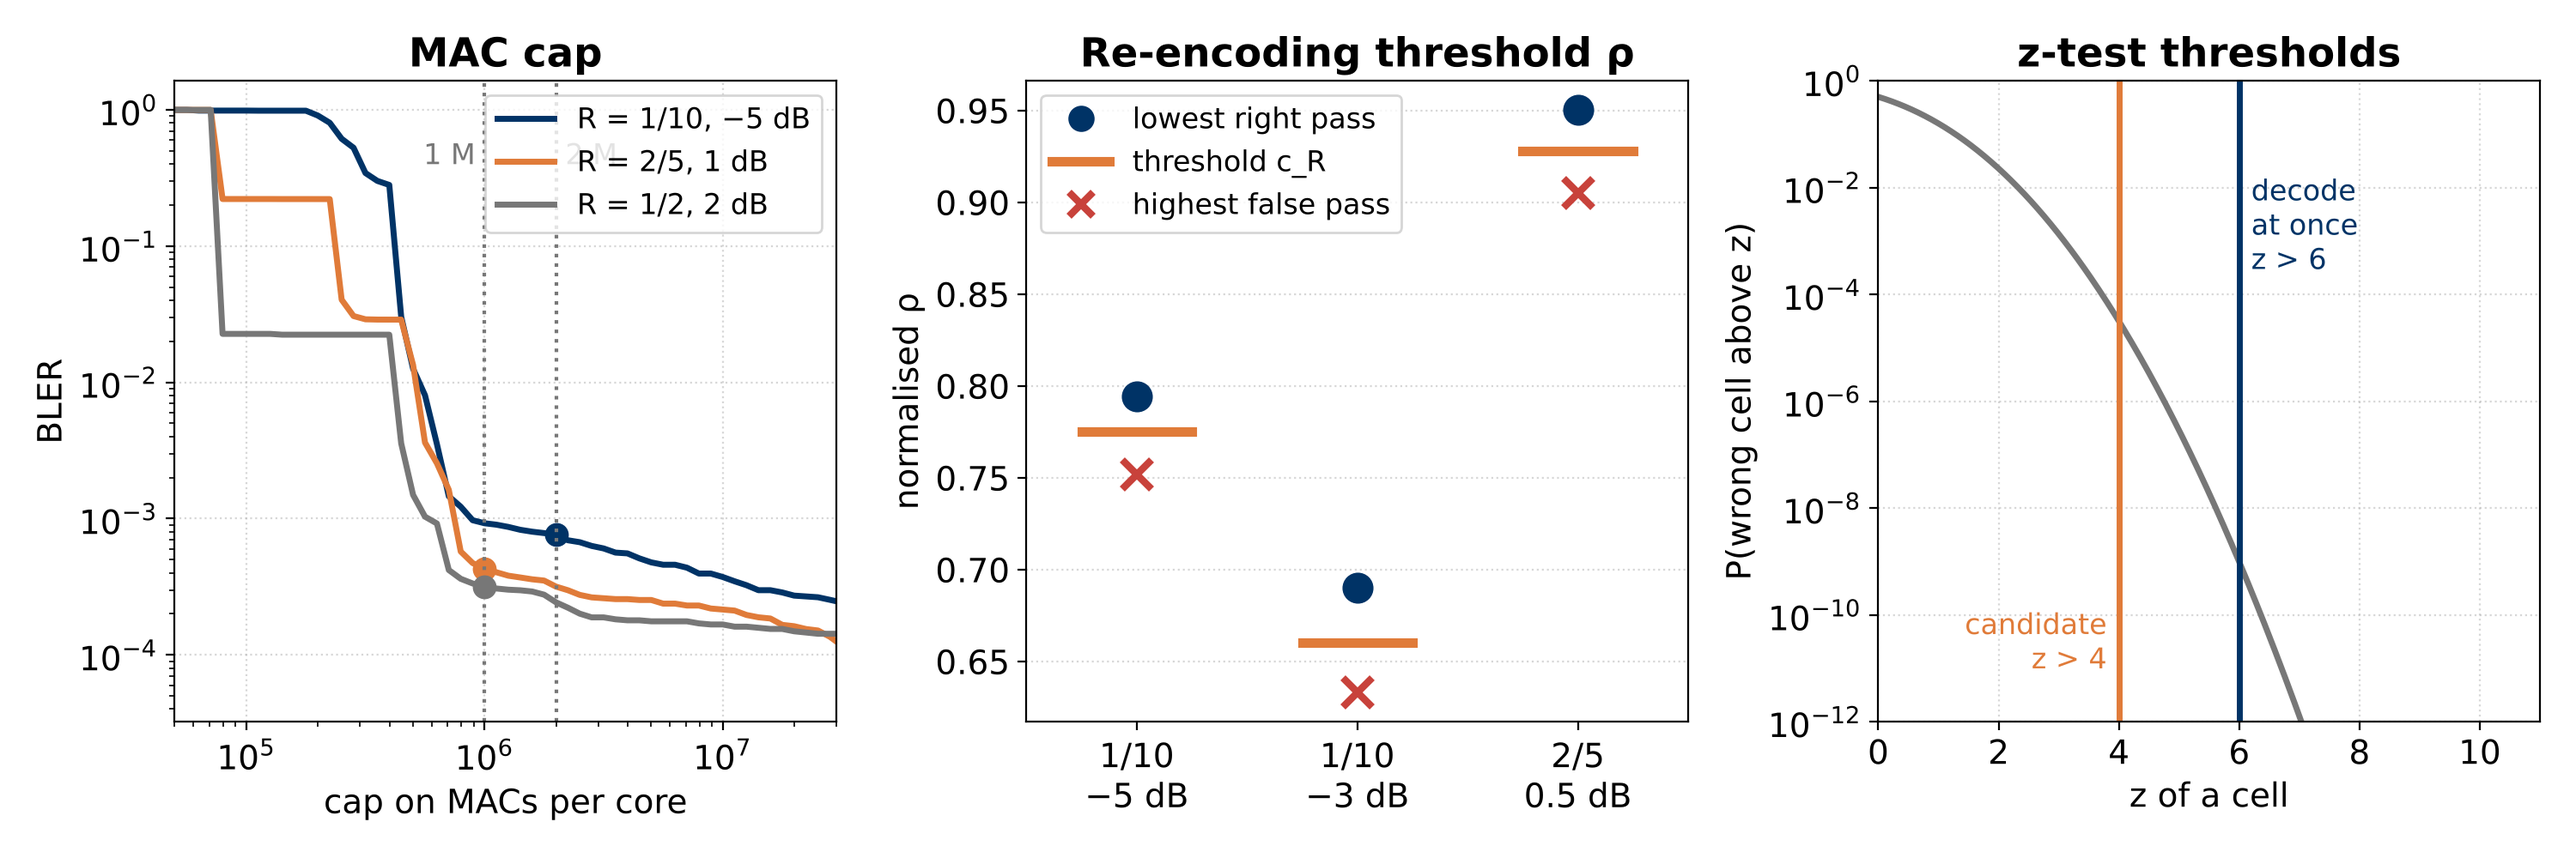
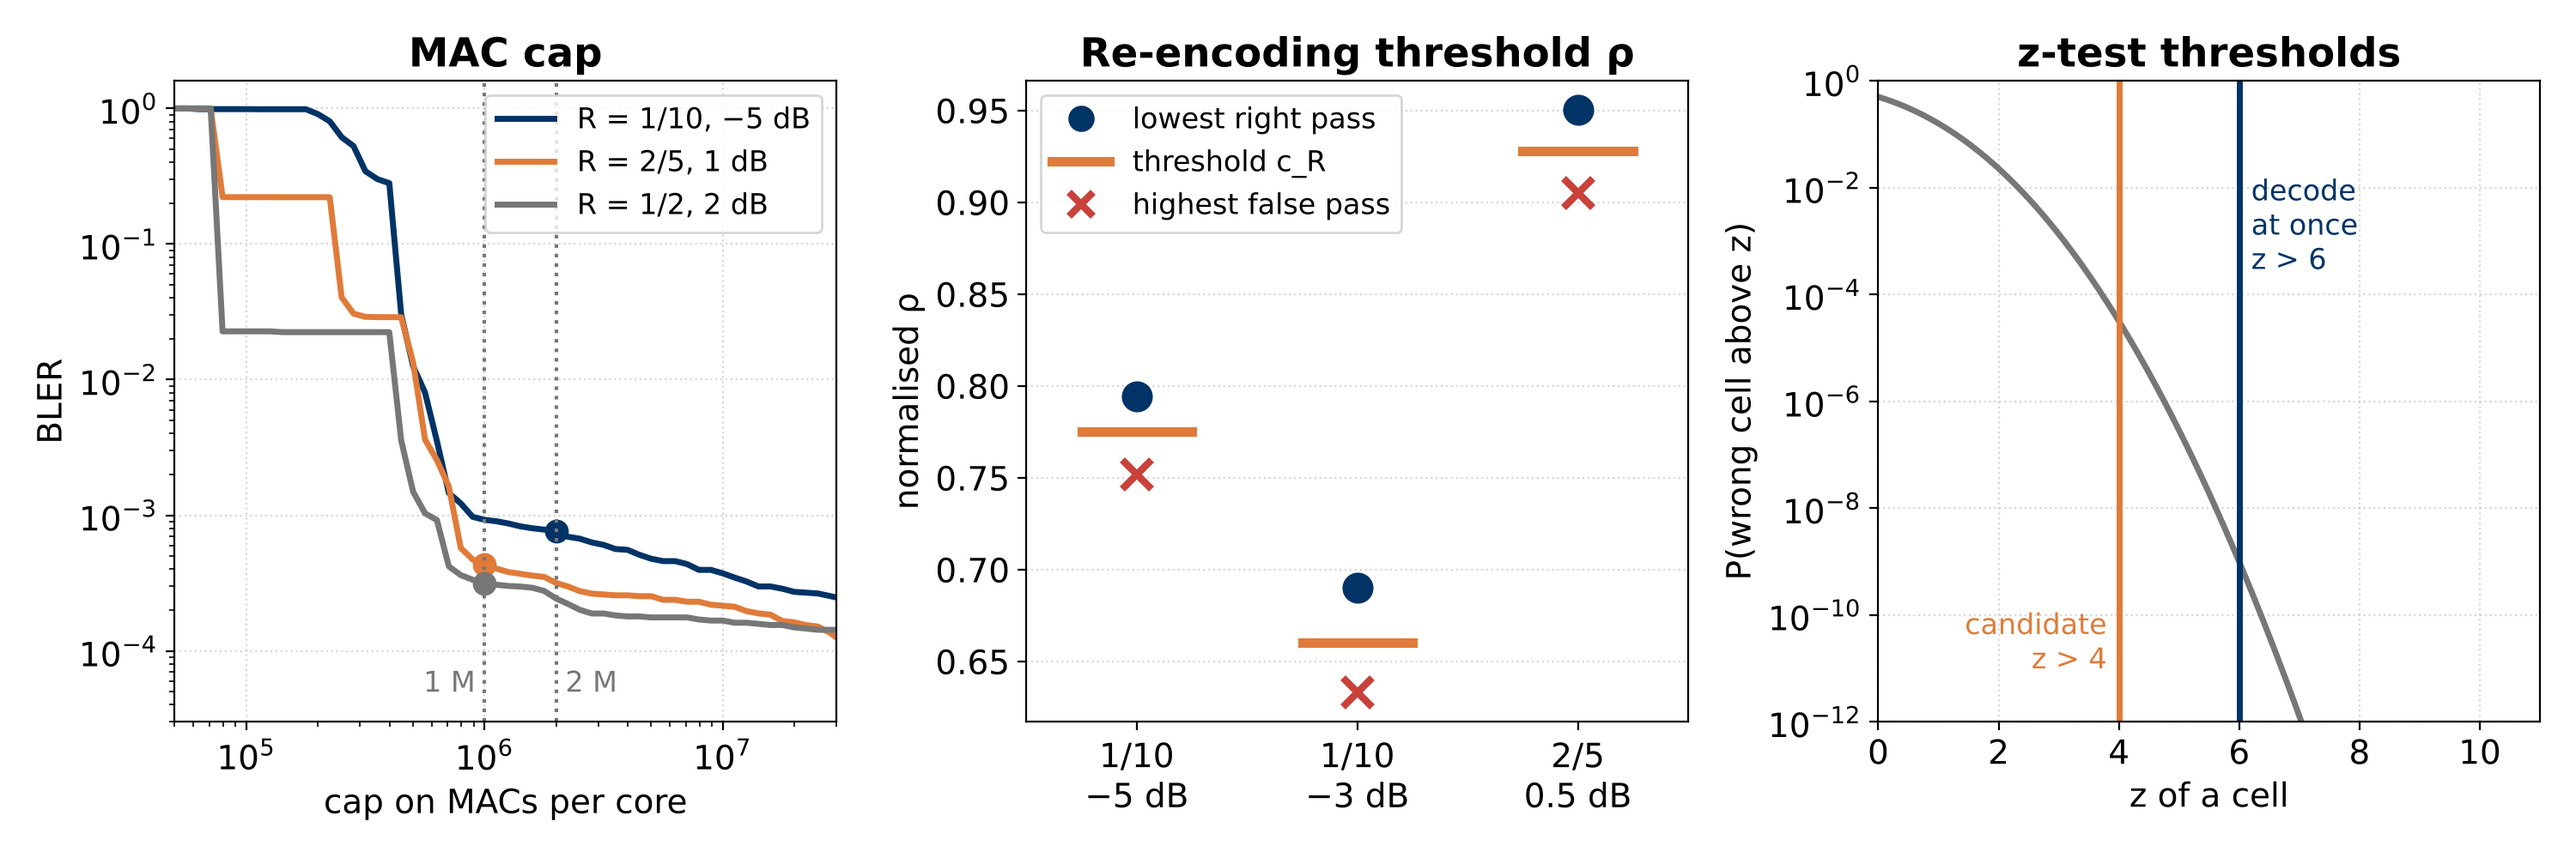
Thresholds figure: move the cap labels clear of the legend
Claude-Session: https://claude.ai/code/session_01Uut9iw5SnA6a3eeYDv3vkc

diff --git a/slides_eq/plot_thresholds.py b/slides_eq/plot_thresholds.py
@@ -35,8 +35,9 @@ for rate, snr, col, cap in (("1/10", "-5.0", NAVY, 2e6), ("2/5", "1.0", ORANGE, 
     a.plot(cap, miss[k], "o", color=col, ms=9)
 a.axvline(1e6, color=GREY, ls=":", lw=1.5)
 a.axvline(2e6, color=GREY, ls=":", lw=1.5)
-a.text(1e6, 0.4, "1 M ", ha="right", color=GREY, fontsize=12)
-a.text(2e6, 0.4, " 2 M", ha="left", color=GREY, fontsize=12)
+a.text(1e6, 5e-5, "1 M ", ha="right", color=GREY, fontsize=12)
+a.text(2e6, 5e-5, " 2 M", ha="left", color=GREY, fontsize=12)
+a.set_ylim(3e-5, 1.6)
 a.set_xlim(5e4, 3e7)
 a.set_xlabel("cap on MACs per core")
 a.set_ylabel("BLER")
